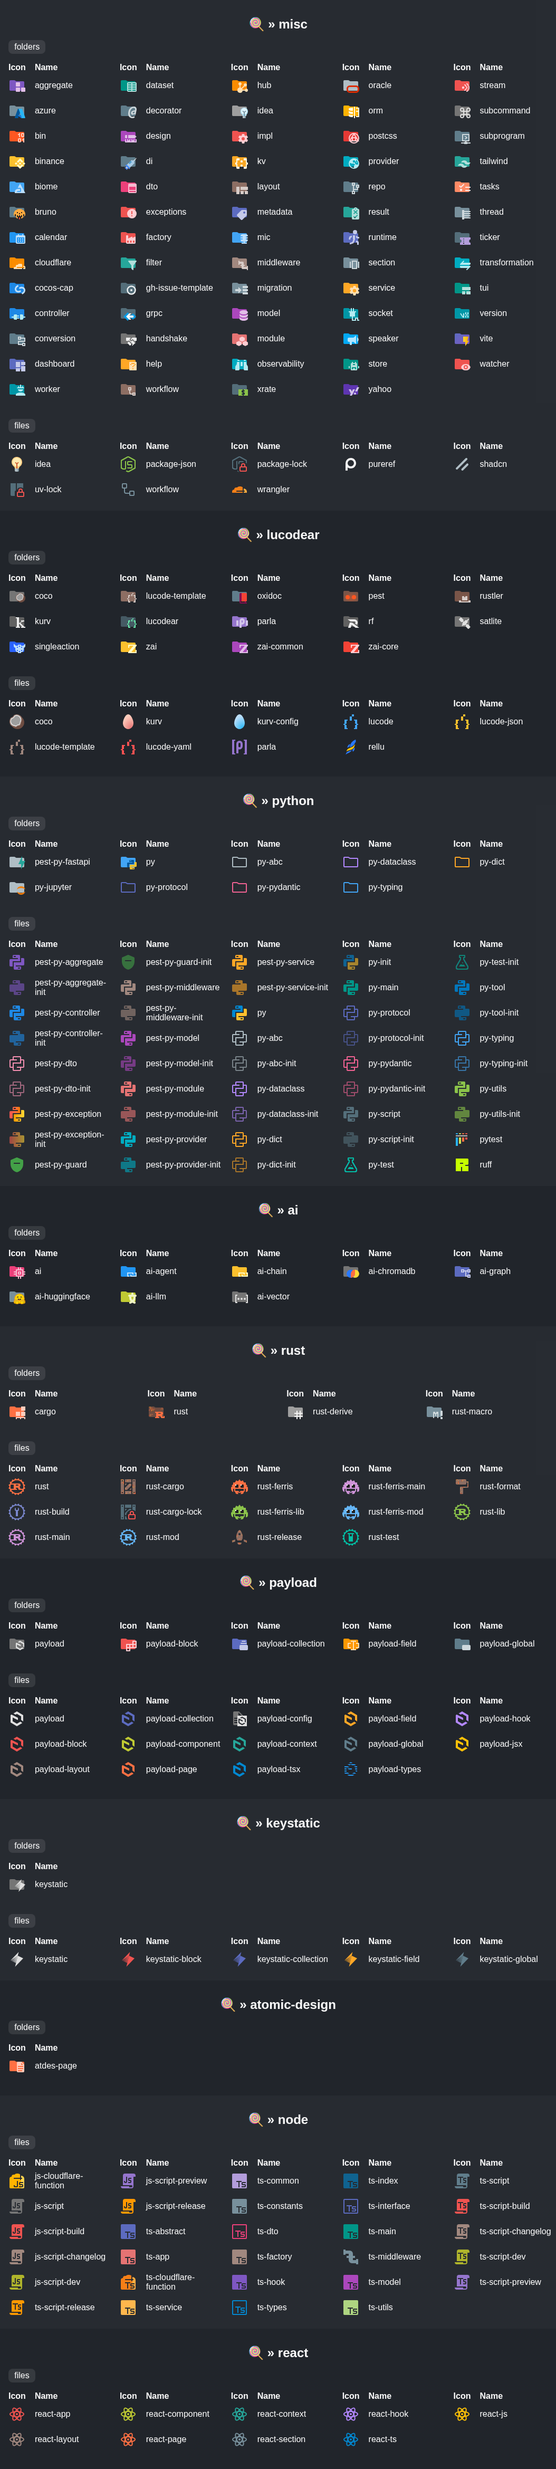
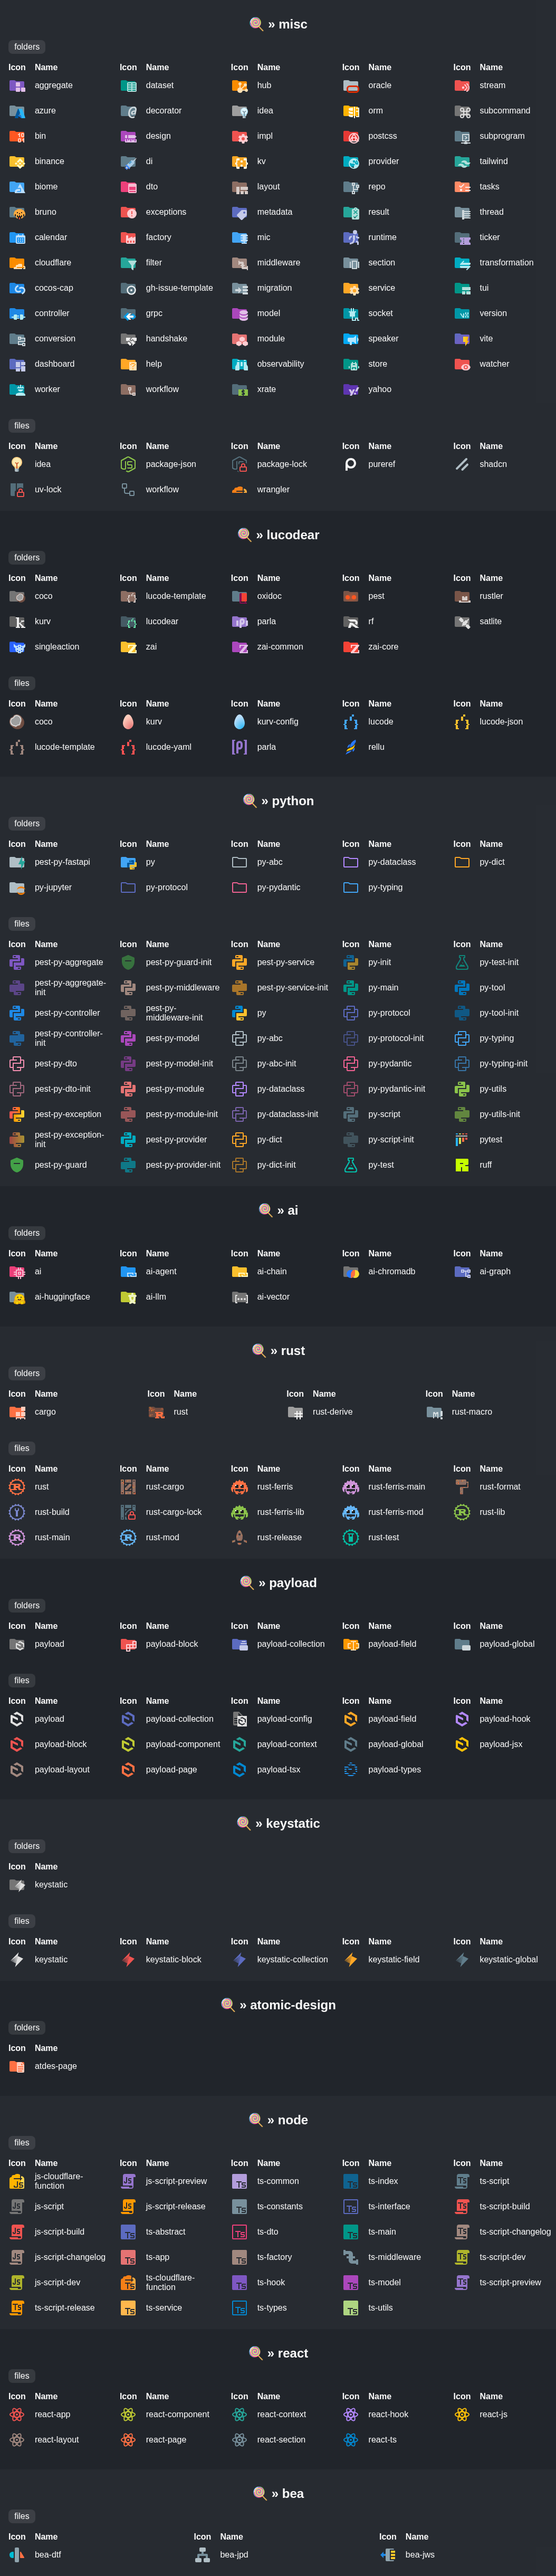
release: 🔖 v1.40.0

diff --git a/CHANGELOG.md b/CHANGELOG.md
@@ -3,10 +3,17 @@
  All notable changes to this project will be documented in this file. Dates are displayed in UTC.
 
  
+#### [v1.40.0](https://github.com/lucodear/lucodear-icons/compare/v1.39.0...v1.40.0) 
+
+> April 15, 2026 
+
+- feat: ✨ add BEA file icons [`5b2b1468`](https://github.com/lucodear/lucodear-icons/commit/5b2b1468)
+ 
 #### [v1.39.0](https://github.com/lucodear/lucodear-icons/compare/v1.38.0...v1.39.0) 
 
 > March 26, 2026 
 
+- release: 🔖 v1.39.0 [`e38331dc`](https://github.com/lucodear/lucodear-icons/commit/e38331dc)
 - feat: ✨ add missing component astro file [`21ec7c90`](https://github.com/lucodear/lucodear-icons/commit/21ec7c90)
  
 #### [v1.38.0](https://github.com/lucodear/lucodear-icons/compare/v1.37.0...v1.38.0) 
